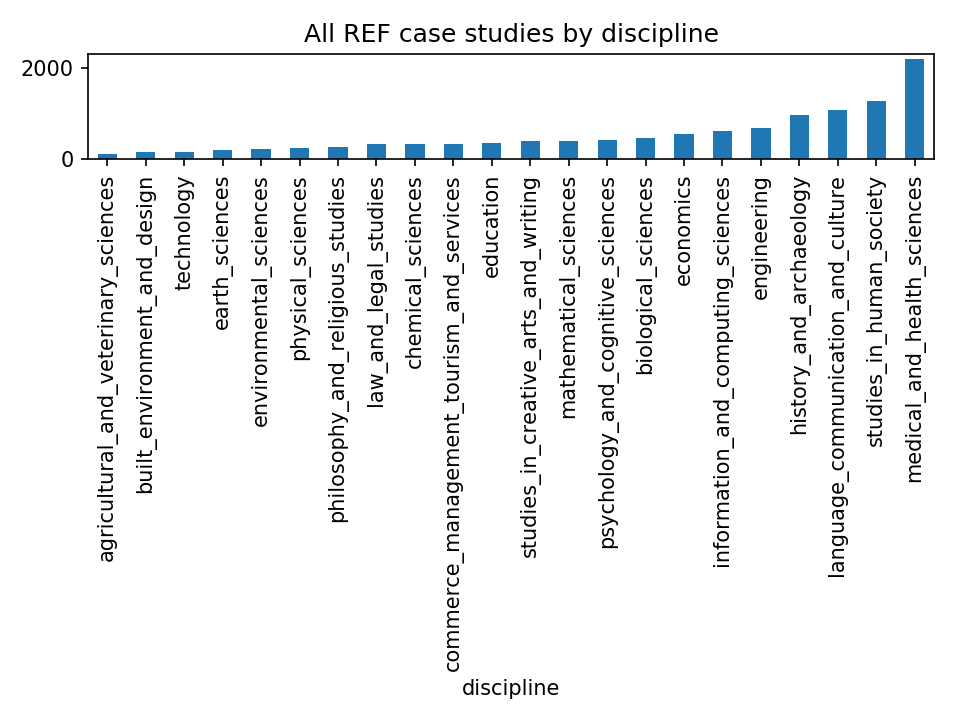
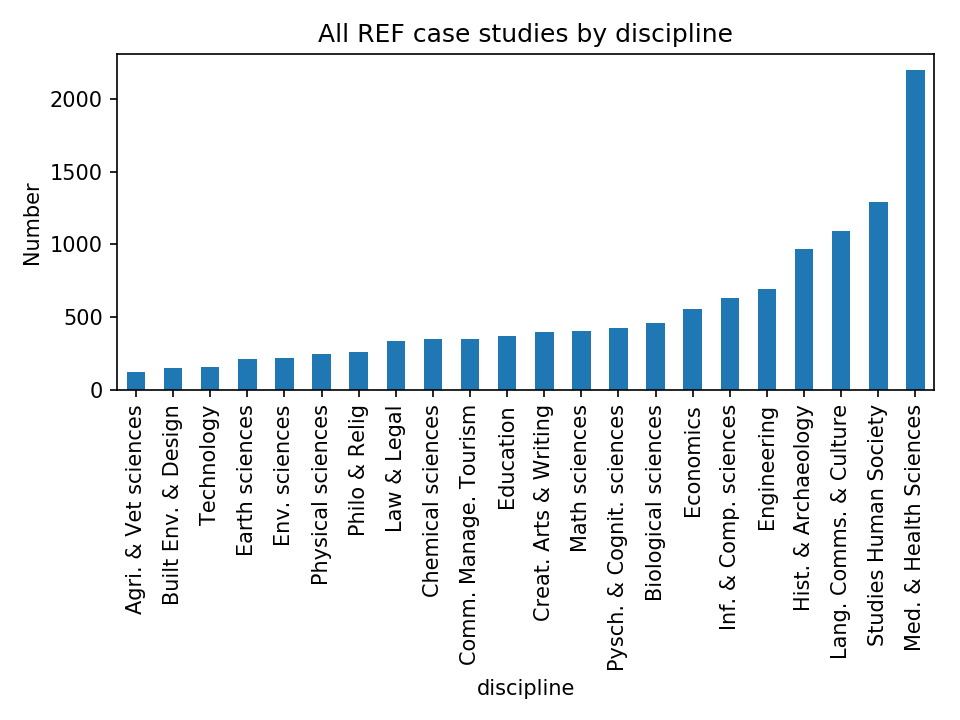
Added lookup table functionality to reduce size of chart labels

diff --git a/ref_case_studies.py b/ref_case_studies.py
@@ -6,6 +6,10 @@ from pandas import ExcelWriter
 import numpy as np
 import matplotlib.pyplot as plt
 import math
+# This gets the pre-formatted short chart labels from a lookup file
+from chart_label_lookup import short_plot_labels_discipline
+from chart_label_lookup import short_plot_labels_funder
+
 #import logging
 
 # The word we're going to look for - in lowercase please
@@ -205,14 +209,14 @@ def relative_percentages(dataframe, df_summary, subject):
     return dataframe
 
 
-def plot_bar_from_df(dataframe, y_col, title):
+def plot_bar_from_df(dataframe, y_col, title, y_axis_title):
     """
     :params: 
     :return: 
     """
-
     dataframe.plot(y = y_col, kind='bar', legend=None)
     plt.title(title)
+    plt.ylabel(y_axis_title)
     # This provides more space around the chart to make it prettier        
     plt.tight_layout(True)
     filename = title.replace(" ", "_")
@@ -337,22 +341,34 @@ def main():
     df_summary_software_by_funder = relative_percentages(df_summary_software_by_funder, df_summary_funder, 'funder')
     df_summary_software_by_discipline = relative_percentages(df_summary_software_by_discipline, df_summary_discipline, 'discipline')
 
+    ########## Prepping for plotting ###############
+
+    for index_name in df_summary_discipline.index.values:
+        df_summary_discipline.rename(index={index_name: short_plot_labels_discipline[index_name]}, inplace=True)
+        df_summary_software_by_discipline.rename(index={index_name: short_plot_labels_discipline[index_name]}, inplace=True)
+        
+    for index_name in df_summary_funder.index.values:
+        df_summary_funder.rename(index={index_name: short_plot_labels_funder[index_name]}, inplace=True)
+        df_summary_software_by_funder.rename(index={index_name: short_plot_labels_funder[index_name]}, inplace=True)
 
     ############ Plotting #############
 
-   #list = [df name, values column, title of chart]
-    plot1 = [df_summary_funder, 'All REF case studies by funder']
-    plot2 = [df_summary_discipline, 'All REF case studies by discipline']
-    plot3 = [df_summary_found_in, 'REF case studies including the word ' + WORD_TO_SEARCH_FOR]
-    plot4 = [df_summary_software_by_funder, 'REF case studies including the word ' + WORD_TO_SEARCH_FOR + ' by funder']
-    plot5 = [df_summary_software_by_discipline, 'REF case studies including the word ' + WORD_TO_SEARCH_FOR + ' by discipline']
-
-    vanilla_plots = [plot1, plot2, plot3, plot4, plot5]
+    # Add a new sublist to add a new plot
+    # list should be of the form: [df name, values column, title of chart]
+    vanilla_plots = [
+       [df_summary_funder, 'All REF case studies by funder'],
+       [df_summary_discipline, 'All REF case studies by discipline'],
+       [df_summary_found_in, 'REF case studies including the word ' + WORD_TO_SEARCH_FOR + ' by location of word'],
+       [df_summary_software_by_funder, 'REF case studies including the word ' + WORD_TO_SEARCH_FOR + ' by funder'],
+       [df_summary_software_by_discipline, 'REF case studies including the word ' + WORD_TO_SEARCH_FOR + ' by discipline']
+    ]
     
     for count in range(0,len(vanilla_plots)):
-        plot_bar_from_df(vanilla_plots[count][0], 'How many', vanilla_plots[count][1])
-        plot_bar_from_df(vanilla_plots[count][0], 'percentage', vanilla_plots[count][1] + ' by percentage')
+        plot_bar_from_df(vanilla_plots[count][0], 'How many', vanilla_plots[count][1], 'Number')
+        plot_bar_from_df(vanilla_plots[count][0], 'percentage', vanilla_plots[count][1] + ' (percentage)', 'Percentage')
         write_results_to_xls(vanilla_plots[count][0], vanilla_plots[count][1])
+
+    print(df_summary_discipline)
 
 
 if __name__ == '__main__':
